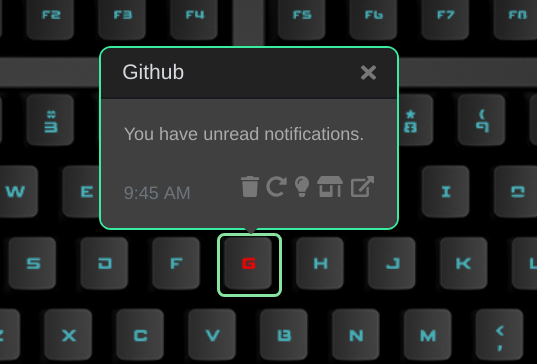
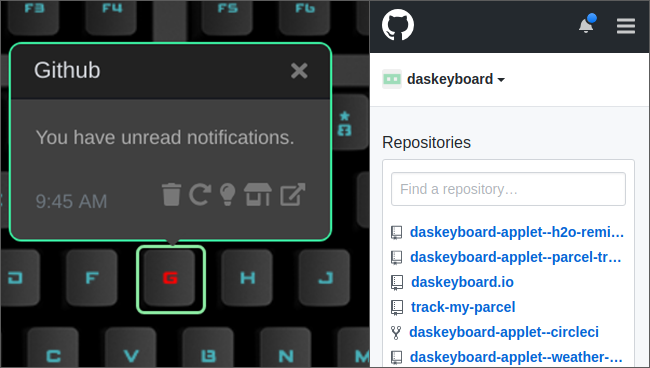
chore: Github become GitHub. Added image.

diff --git a/CHANGELOG.md b/CHANGELOG.md
@@ -1,3 +1,9 @@
+#### 1.0.5 (2019-02-14)
+
+##### Chore
+
+* **syntax:**   Github become GitHub with a new image
+
 #### 1.0.4 (2019-02-05)
 
 ##### Bug Fixes
@@ -21,7 +27,6 @@
 * **notifications:**  clear color in key if notifications has been read (977f8eb2)
 
 #### 1.0.1 (2018-12-27)
-
 
 ##### Documentation Changes
 

diff --git a/README_END_USER.md b/README_END_USER.md
@@ -1,4 +1,4 @@
-# Github
+# GitHub
 
 Displays GitHub notifications on a Das Keyboard Q Series by blinking a key of your choice.
 
